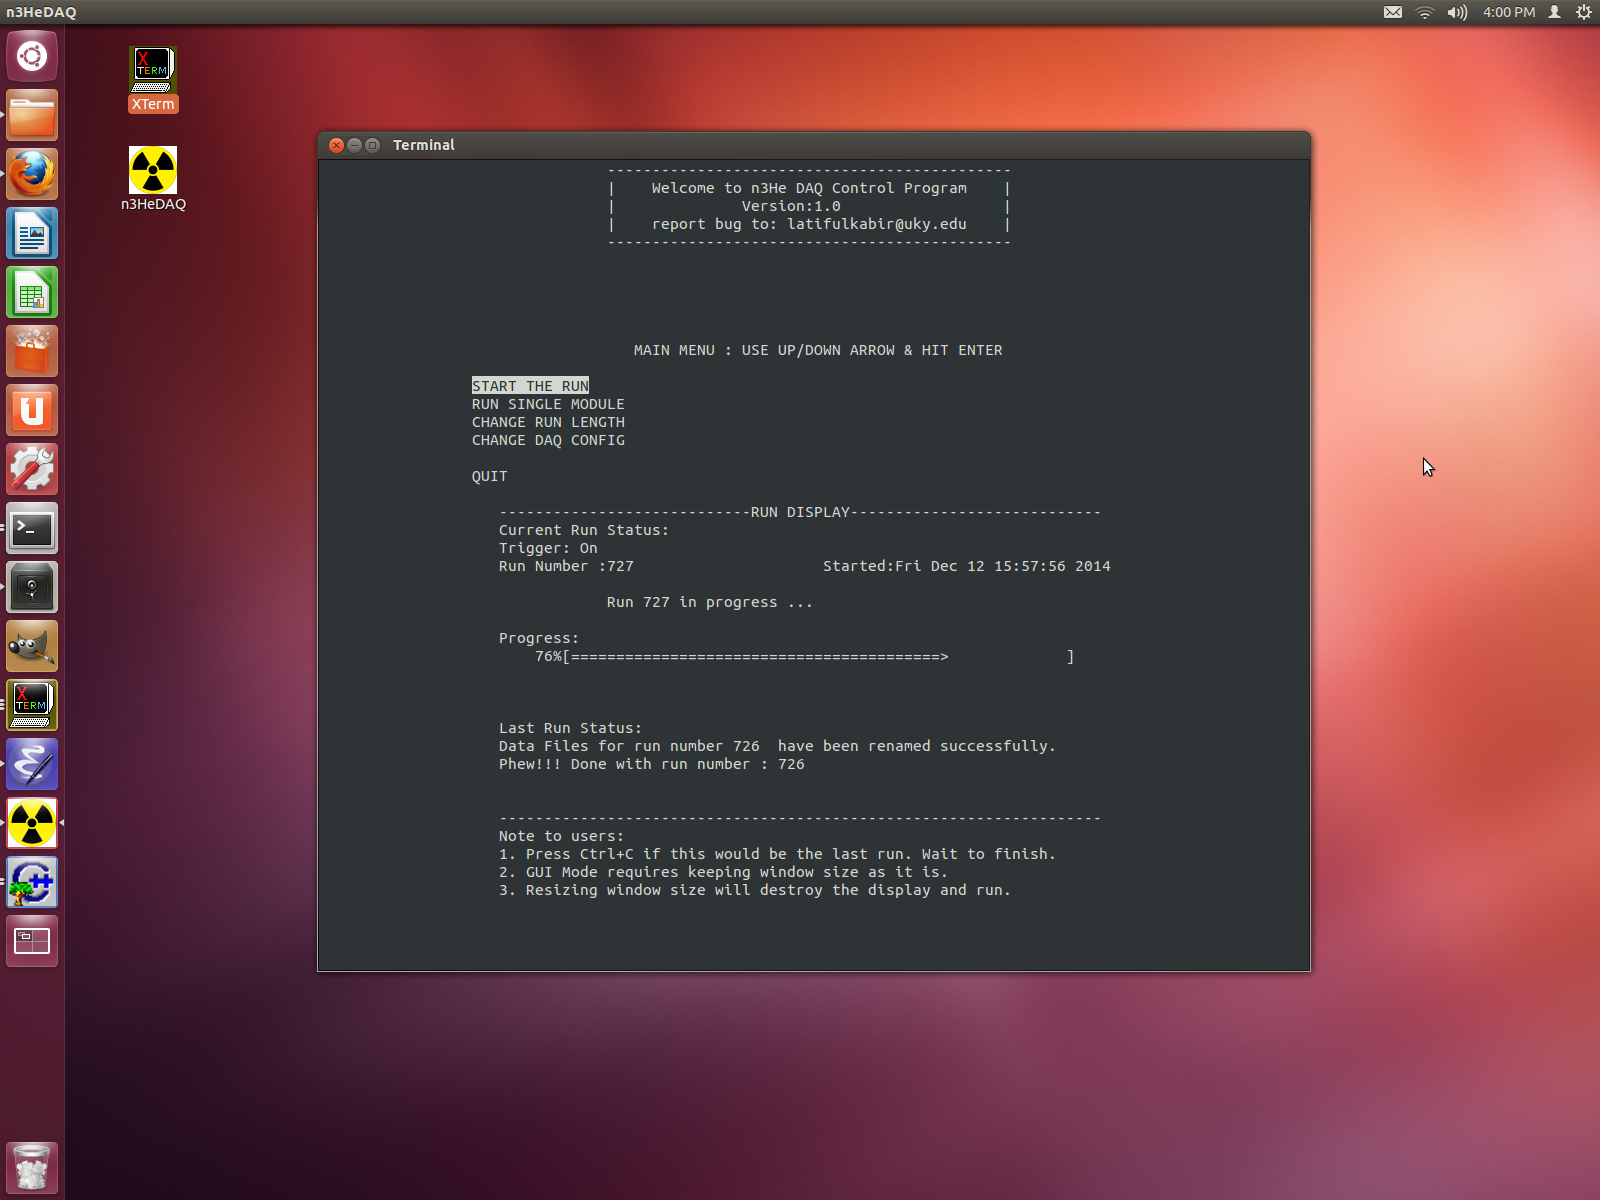
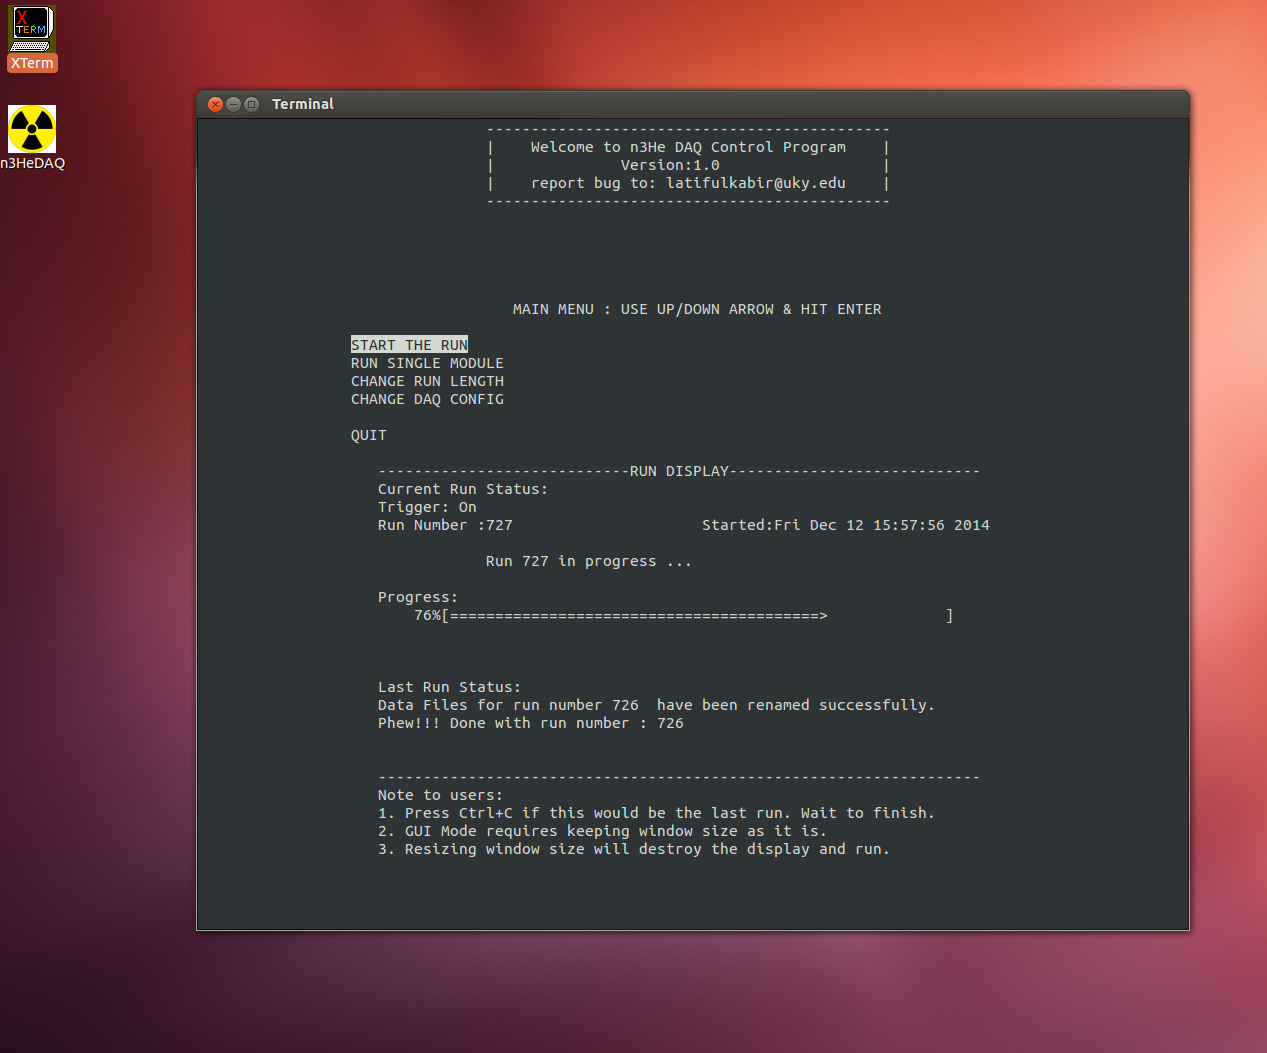
Added Screenshot to README

diff --git a/README.md b/README.md
@@ -10,6 +10,14 @@ This repository is divided into several sub directories based on the category:
 * DAQFirmware --- This directory contain DAQ Firmware related Software update.
 * DemoScripts --- Contains demo analysis or other demo scripts necessary for DAQ performance demonstration & testing.
 
+Screenshots
+--------------
+
+![](n3HeDAQ/n3HeDAQ_demo.png "n3HeDAQ Control Program")
+
+![](n3HeDataBrowser/n3HeData/demo_n3HeDataBrowser.png "n3He Data Browser")
+
+
 n3HeDAQ
 -------
 Contains
